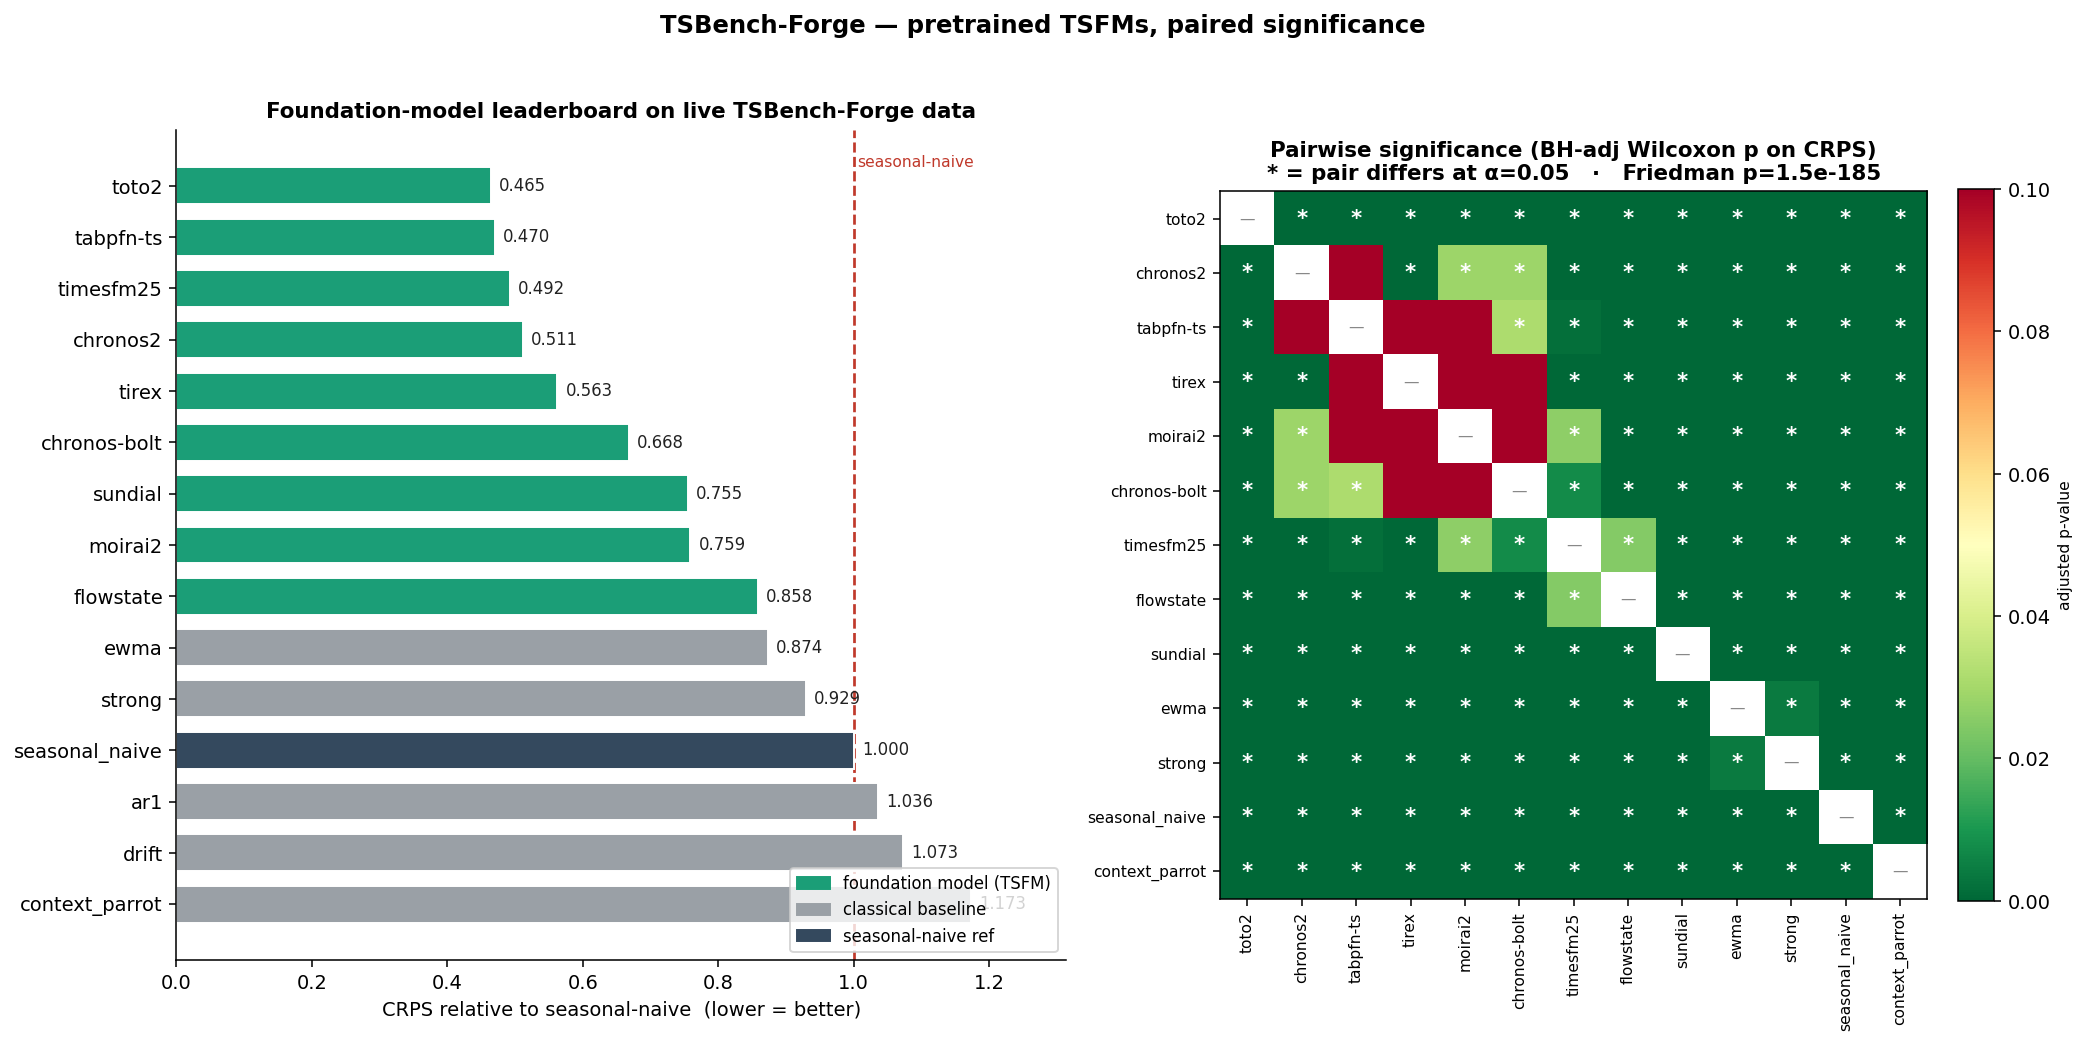
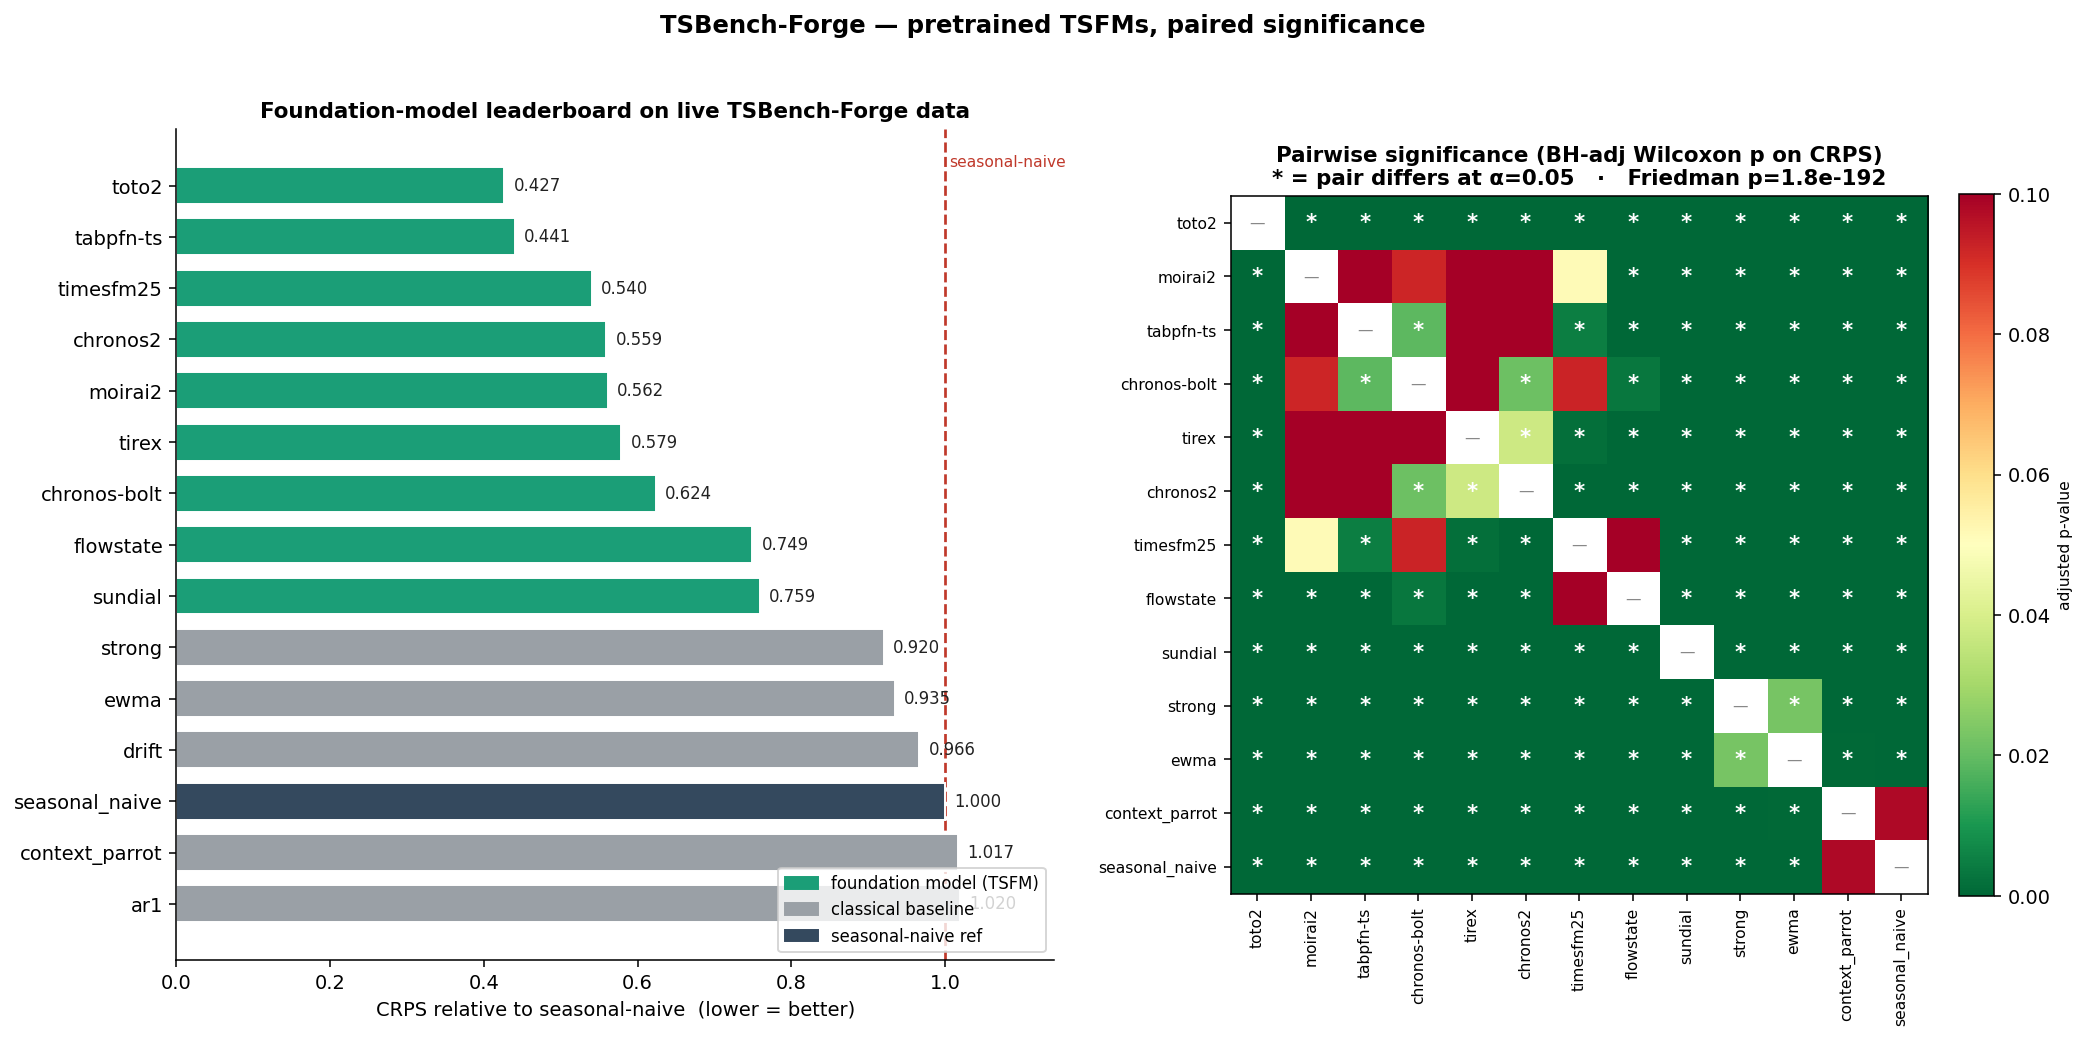
Rerun 9-TSFM leaderboard on the expanded 62-source pool (autoresearch batch included)
256 seeded challenges over 43 series; 28/256 (11%) draw from the new sources.
Toto-2 and TabPFN-TS hold ranks 1-2; Moirai-2 jumps 8th->5th; all nine TSFMs
still significantly beat seasonal-naive on CRPS (Friedman chi2=1462.5,
p=1.8e-192). Absolute CRPS rose pool-wide — the new irregular/tick/RTT sources
are genuinely harder targets. First pod was evicted mid-sundial; sundial
re-ran on a fresh pod against the identical seeded set, so the merge stays
paired.

diff --git a/notebooks/tsfm_significance_result.md b/notebooks/tsfm_significance_result.md
@@ -1,78 +1,80 @@
-# TSFM significance on live TSBench-Forge data (GPU run, 2026-07-09)
+# TSFM significance on live TSBench-Forge data (GPU run, 2026-07-11)
 
 All 9 target foundation models scored against the live benchmark and tested with paired
 Wilcoxon / Friedman. Run via `scripts/run_tsfm_comparison_lium.py --group all`
 (one GPU pod — RTX 4090 or, when the 4090 spot pool is churny, A100, a fresh venv per model group so conflicting libraries can't
 collide), merged with `scripts/merge_tsfm_results.py`.
 
-**Setup.** 256 challenges, `motif_len=304` (context 256 + horizon 48), **42 real
+**Setup.** 256 challenges, `motif_len=304` (context 256 + horizon 48), **43 real
 source series**, seed `tsfm-significance-v1` (identical across groups → paired).
+First run on the **expanded post-autoresearch pool**: 62 eligible sources including
+the 2026-07-10 batch (Gemini trades, SG taxi, CRW reef SST, RIPE Atlas RTT,
+Datalakes lakes, USACE reservoirs) plus the repaired NDBC/GLERL parquets —
+28/256 challenges (11%) draw from the new sources.
 
 ## Unified leaderboard — 9 TSFMs vs classical panel
 
 Seasonal-naive-relative shifted-gmean (lower = better). All nine foundation models
 **sweep the top on CRPS**, each significantly beating seasonal-naive. The edge is
-probabilistic (CRPS); on MASE they're mixed (TabPFN-TS leads point accuracy).
+probabilistic (CRPS); on MASE Toto-2 and TabPFN-TS lead point accuracy too.
 
 | rank | model | crps_rel | mase_rel | CRPS | MASE |
 |---:|---|--:|--:|--:|--:|
-| 1 | **toto2** | 0.465 | 0.831 | 0.339 | 1.571 |
-| 2 | **tabpfn-ts** | 0.470 | 0.683 | 0.377 | 1.711 |
-| 3 | **timesfm25** | 0.492 | 0.718 | 0.398 | 1.851 |
-| 4 | **chronos2** | 0.511 | 0.951 | 0.364 | 1.820 |
-| 5 | **tirex** | 0.563 | 1.051 | 0.379 | 1.837 |
-| 6 | **chronos-bolt** | 0.668 | 1.268 | 0.391 | 2.256 |
-| 7 | **sundial** | 0.755 | 1.387 | 0.459 | 2.173 |
-| 8 | **moirai2** | 0.759 | 1.326 | 0.385 | 2.950 |
-| 9 | **flowstate** | 0.858 | 1.592 | 0.422 | 12.376 |
-| 10 | ewma | 0.874 | 0.761 | 0.562 | 1.903 |
-| 11 | strong | 0.929 | 0.801 | 0.599 | 2.065 |
-| 12 | seasonal_naive | 1.000 | 0.914 | 0.648 | 2.183 |
-| 13 | ar1 | 1.036 | 1.047 | 0.636 | 2.658 |
-| 14 | drift | 1.073 | 1.022 | 0.708 | 2.906 |
-| 15 | context_parrot | 1.173 | 1.182 | 0.724 | 2.790 |
+| 1 | **toto2** | 0.427 | 0.671 | 0.353 | 2.143 |
+| 2 | **tabpfn-ts** | 0.441 | 0.621 | 0.384 | 2.245 |
+| 3 | **timesfm25** | 0.540 | 0.730 | 0.517 | 2.938 |
+| 4 | **chronos2** | 0.559 | 0.851 | 0.503 | 3.075 |
+| 5 | **moirai2** | 0.562 | 0.877 | 0.379 | 2.811 |
+| 6 | **tirex** | 0.579 | 0.883 | 0.490 | 2.994 |
+| 7 | **chronos-bolt** | 0.624 | 0.972 | 0.475 | 2.878 |
+| 8 | **flowstate** | 0.749 | 1.124 | 0.563 | 8.715 |
+| 9 | **sundial** | 0.759 | 1.111 | 0.668 | 3.868 |
+| 10 | strong | 0.920 | 0.823 | 0.748 | 2.999 |
+| 11 | ewma | 0.935 | 0.918 | 0.750 | 3.211 |
+| 12 | drift | 0.966 | 0.959 | 0.777 | 3.290 |
+| 13 | seasonal_naive | 1.000 | 0.960 | 0.812 | 3.508 |
+| 14 | context_parrot | 1.017 | 1.034 | 0.776 | 3.523 |
+| 15 | ar1 | 1.020 | 1.030 | 0.799 | 3.810 |
 
 ## Significance
 
-- **Friedman χ² = 1400, p = 2e-185** (CRPS) — the models genuinely differ.
+- **Friedman χ² = 1462.5, p = 1.8e-192** (CRPS) — the models genuinely differ.
 - **Every TSFM beats seasonal-naive on CRPS** (Holm-adjusted paired Wilcoxon):
 
   | model | median CRPS Δ vs naive | win-rate | Holm p | sig |
   |---|--:|--:|--:|:--:|
-  | chronos-bolt | -0.227 | 0.84 | 8e-32 | Y |
-  | toto2 | -0.224 | 0.86 | 7e-28 | Y |
-  | tirex | -0.218 | 0.86 | 1e-31 | Y |
-  | moirai2 | -0.212 | 0.79 | 5e-25 | Y |
-  | chronos2 | -0.210 | 0.86 | 4e-32 | Y |
-  | tabpfn-ts | -0.204 | 0.86 | 6e-26 | Y |
-  | flowstate | -0.191 | 0.81 | 1e-25 | Y |
-  | timesfm25 | -0.190 | 0.86 | 6e-32 | Y |
-  | sundial | -0.150 | 0.74 | 7e-20 | Y |
-  | ewma / strong | ~0 | ~0.5 | (sig but tiny) | Y |
-  | ar1 / drift / context_parrot | >=0 | <=0.50 | ns | N |
+  | toto2 | -0.254 | 0.89 | 7e-33 | Y |
+  | chronos-bolt | -0.244 | 0.88 | 3e-34 | Y |
+  | moirai2 | -0.228 | 0.84 | 6e-32 | Y |
+  | tabpfn-ts | -0.228 | 0.88 | 2e-32 | Y |
+  | chronos2 | -0.226 | 0.91 | 3e-35 | Y |
+  | tirex | -0.220 | 0.91 | 3e-35 | Y |
+  | timesfm25 | -0.207 | 0.91 | 1e-36 | Y |
+  | flowstate | -0.177 | 0.84 | 2e-27 | Y |
+  | sundial | -0.147 | 0.75 | 1e-19 | Y |
+  | ewma | -0.009 | 0.64 | 4e-06 | Y |
+  | strong | -0.003 | 0.61 | 5e-08 | Y |
+  | ar1 | -0.000 | 0.51 | 0.37 | N |
+  | drift | +0.000 | 0.41 | 1 | N |
+  | context_parrot | +0.010 | 0.40 | 1 | N |
 
+## Movement vs the 2026-07-09 run (42-series pool, pre-autoresearch)
 
-## Caveats
+The pool expansion reshuffled the mid-table while the top two held:
 
-- **Breadth**: 42 source series — challenges are not fully independent, so the
-  per-source-relative leaderboard is the primary ranking and the p-values
-  corroborate. This grows as the scraper's cron accumulates history (the loader
-  now concatenates a source's daily parquet).
-- **Full roster of 9 loaded** after per-group venv recipes (own torch each) + adapter
-  fixes (FlowState: unwrap `out.quantile_outputs`; Toto-2: trim context to a multiple of
-  patch_size 32; TabPFN-TS: float quantile-column keys + `target` point column, plus a
-  `TABPFN_TOKEN` in `.env` and a one-time license accept at ux.priorlabs.ai).
-- **FlowState MASE=12.4 is an outlier** (its CRPS 0.858 is fine): its *point* forecast
-  is miscalibrated in scale on some series — likely the adapter's `scale_factor=1.0`
-  / median extraction. Its probabilistic (CRPS) forecast ranks normally. Point-metric
-  use of FlowState should be treated with caution pending a scale-handling fix.
+- **Toto-2 and TabPFN-TS stay 1–2** (gap narrowed: 0.427 vs 0.441 crps_rel).
+- **Moirai-2 jumped 8th → 5th** and **chronos-bolt slid 6th → 7th**; TiRex and
+  chronos2 swapped. Sundial dropped 7th → 9th.
+- Absolute CRPS rose across the board (0.648 → 0.812 for seasonal-naive):
+  the new sources (irregular trade ticks, RTT with -1 sentinels, reservoir
+  guide-curves) are genuinely harder targets, which is what they were added for.
+- The classical panel ordering is stable; ar1/drift/context_parrot remain
+  indistinguishable from seasonal-naive — the discrimination filter is doing
+  its job.
 
-## Reproduce
+Figure: `notebooks/figures/tsfm_leaderboard.png`. Raw per-group results under
+`notebooks/results/group_*/`; unified stats in `notebooks/results/merged.json`.
 
-```bash
-python scripts/run_tsfm_comparison_lium.py --gpu RTX4090 --group all --ttl 90m --yes
-python scripts/merge_tsfm_results.py
-```
-
-Total GPU spend to this result: ≈ $16 across development iterations; a clean
-single-pod `--group all` run is ~$0.50 (one RTX 4090, ~45 min).
+Run note: the first pod (gentle-orbit-6d) was evicted mid-sundial after 6 of 7
+groups completed; sundial re-ran on a fresh pod (brave-lion-d7) against the
+identical seeded challenge set, so the merge stays paired.